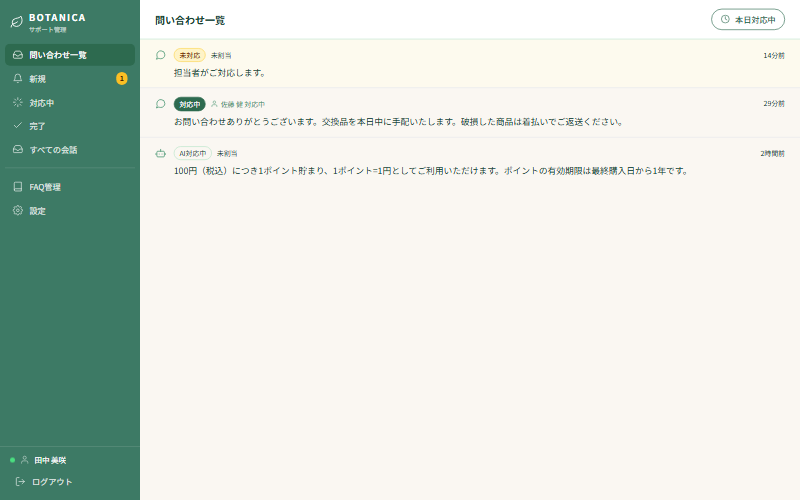
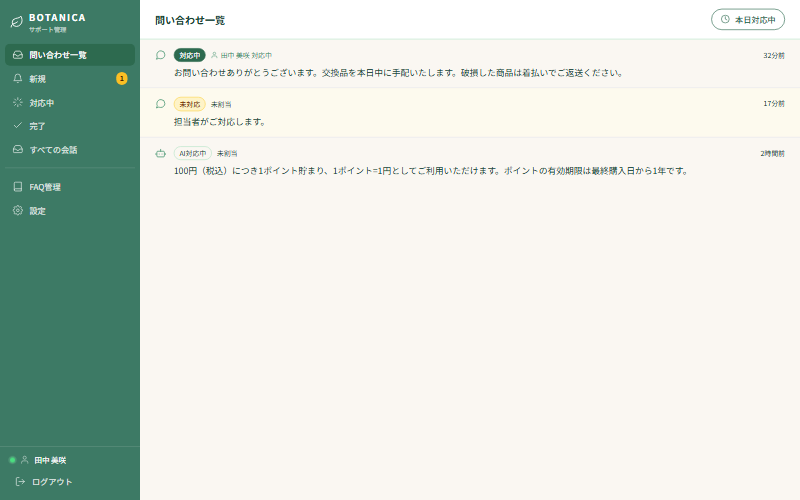
docs: 返信手順のスクショをログイン本人の返信に差し替える
operator-detail.png は「田中 美咲」でログインしているのに
返信者が「佐藤 健」になっており、返信手順の説明として
「自分が返信したらどう見えるか」が読み取れなかった。

対応中の会話の担当者と返信者をログインアカウント（田中 美咲）に揃え、
サイドバー・担当者欄・吹き出しの名前が一致した状態で撮り直した。
一覧のスクショも同じ理由で撮り直している。

あわせて、他の担当者が対応中の問い合わせにも返信できることを
マニュアルに追記した。実装は会話をロックしない設計で（Q-002）、
担当者の離席・退勤時に誰も返信できなくなるのを避けている。
別の人が返信しても担当者は最初に返信した人のまま変わらず、
正式な引き継ぎは担当者欄から変更する。

Changed region(s): [[0.2188, 0.09, 0.7812, 0.27]]

diff --git a/docs/manual-operator.md b/docs/manual-operator.md
@@ -100,6 +100,24 @@ AIがそれまでにどう答えたかも、すべてこの画面で確認でき
 > **お客様が返信を見たかどうかは分かりません**
 > 既読の表示機能はありません。返事が来ない場合は、時間を置いて確認してください。
 
+### 他の担当者が対応中の問い合わせにも返信できます
+
+**担当者が決まっている問い合わせにも、そのまま返信できます。**
+会話はロックされません。担当者が離席・退勤しているときに
+誰も返信できなくなるのを避けるためです。
+
+- 別の人が返信しても、**担当者は最初に返信した人のまま**変わりません
+- 誰の発言かは吹き出しの上に名前が出るので、後から見ても分かります
+- 担当を正式に引き継ぐときは、画面上部の**担当者の欄から変更**できます
+
+急ぎの案件をフォローするときは、そのまま返信して構いません。
+やり取りが続くようであれば、担当者を自分に付け替えておくと
+誰が見ているかが他の人にも分かります。
+
+> **返信する前に、それまでのやり取りを必ず読んでください。**
+> 担当者が既に案内した内容を繰り返したり、違う案内をしたりすると
+> お客様が混乱します。
+
 ---
 
 ## 4. 対応を完了する
